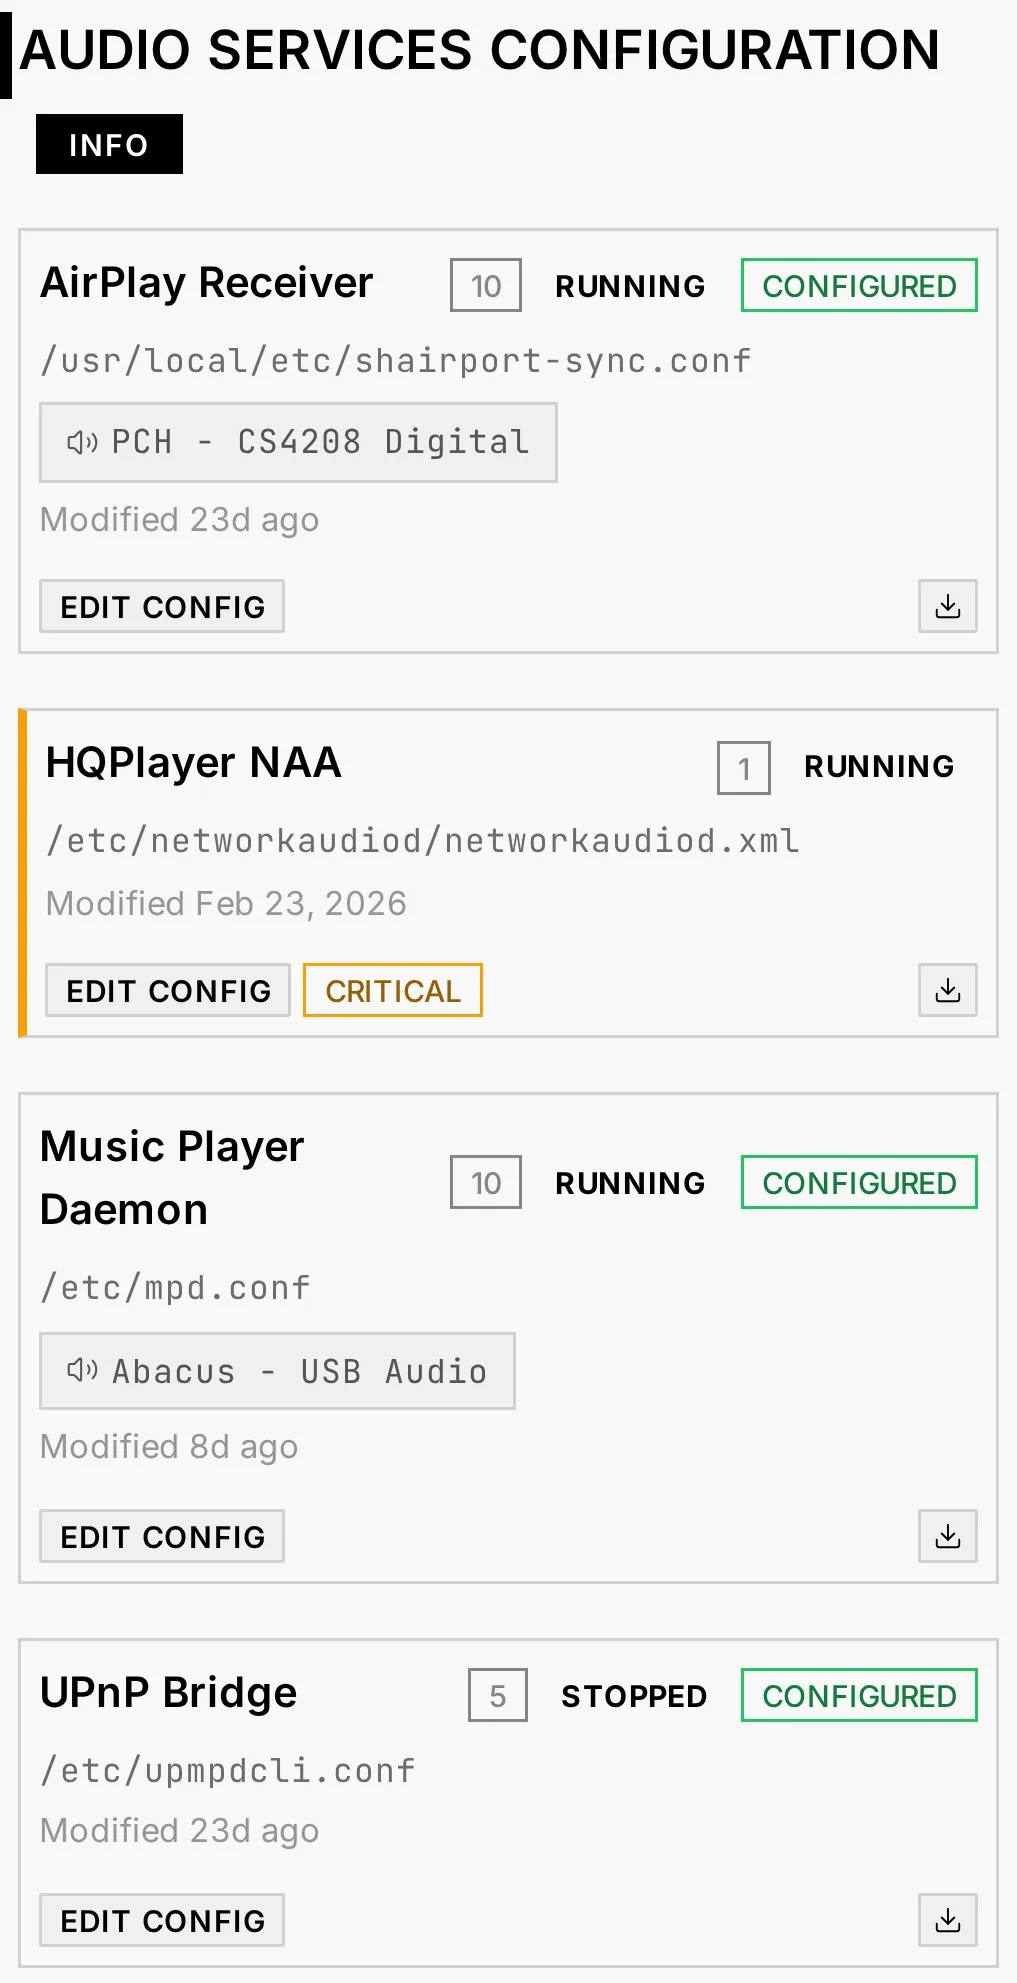
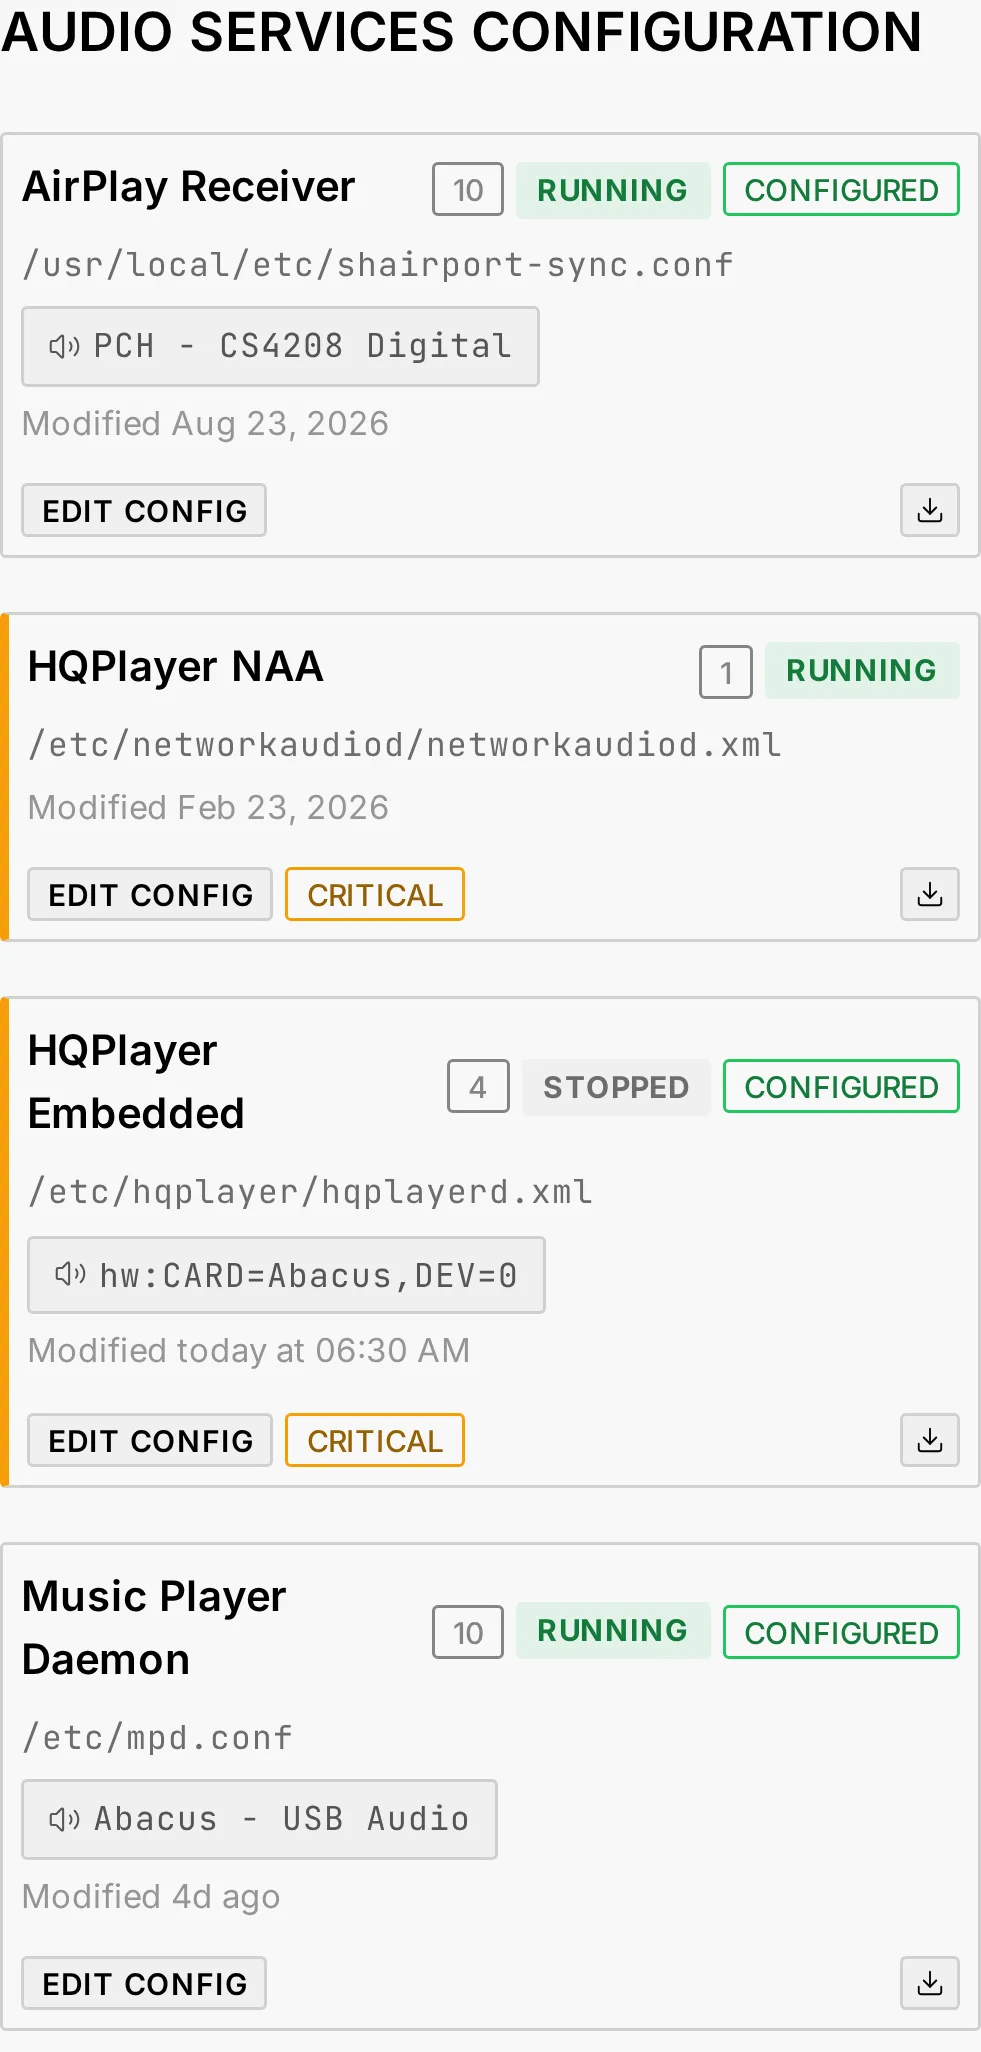
docs: retake the Config, Services and Pipeline figures without their INFO badge
Taken from the dev instance with the lab staged — MPD, AirPlay, the NAA and
HQPlayer Embedded running, So What playing through MPD at 24 bit / 192 kHz —
then the box put back as it was.

diff --git a/CHANGELOG.md b/CHANGELOG.md
@@ -30,7 +30,7 @@ and this landing) are documented here. Format based on
 - **[ui] The licence panel's portal links accept only web addresses.** The *License portal* and *Download .lic* links took the address the licence server gave as it came, a `javascript:` one included.
 - **[ui][site] The Editions window says what each edition holds.** It classed the configuration editor in Pro, where the code and `EDITIONS.md` put it in Starter, and it now matches `EDITIONS.md`, itself corrected: push notifications are sent for four events, not for "playback events"; choosing the output belongs to Pro; the configuration check is a basic syntax check; the DSD volume protection, which every edition runs, is listed in Starter.
 - **[ui] Buttons that are not buttons answer the keyboard.** A clickable badge, the icons of the Audio Software and Services titles, the API icon of the Settings panel, the radio card, the player's cover and source dots and the pull tab could only be clicked: they are now reached with Tab and pressed with Enter or Space — on the element itself, so a key pressed on a radio card's own buttons still does what that button does. A test fails on an element announced as a button that does not answer the keyboard.
-- **[manual] The manual describes the app as it is.** Every sentence was checked against the code on 2026-09-28. Among the corrections: what each role can do, and that changing an account's password, role or state signs it out everywhere; that a session lasts 12 hours, the installed app included; the Config editor, whose guided mode and CONFIGURED badges are for admins; Audio Software; a rewritten Performance chapter, with the latency and network tests; Systemd, whose *Validate* button does not exist; the licence; the Pipeline graph, its colours and commands; the profiles, whose switch is not undone when a service fails, and starts nothing when an essential one cannot be stopped; and a Roon queue, which is changed from the Roon app. The sentence saying every tab has an INFO badge is gone with the badges, and four figures that showed one are retaken without it: the Audio Software tab, the network test and both licence panels.
+- **[manual] The manual describes the app as it is.** Every sentence was checked against the code on 2026-09-28. Among the corrections: what each role can do, and that changing an account's password, role or state signs it out everywhere; that a session lasts 12 hours, the installed app included; the Config editor, whose guided mode and CONFIGURED badges are for admins; Audio Software; a rewritten Performance chapter, with the latency and network tests; Systemd, whose *Validate* button does not exist; the licence; the Pipeline graph, its colours and commands; the profiles, whose switch is not undone when a service fails, and starts nothing when an essential one cannot be stopped; and a Roon queue, which is changed from the Roon app. The sentence saying every tab has an INFO badge is gone with the badges, and the seven figures that showed one are retaken without it: the Audio Software, Config, Services and Audio Pipeline tabs, the network test and both licence panels — the Config tiles with their state in colour.
 
 ### Removed
 - **[ui][manual] The cockpit's LOW POWER badge and Device Battery tile are gone.** LOW POWER turned the app's animations off, refreshed its live figures half as often and slowed two of its checks, on the device showing the app — the box never depended on it. It came on by itself from the battery level in Chromium browsers only, and after a switch by hand it took three taps to turn off. The **Animations** setting already turns animations off. The battery tile existed for it, and the app no longer reads the battery at all. The cockpit's timer table loses its *Effective* column, which only differed from the interval under LOW POWER.
